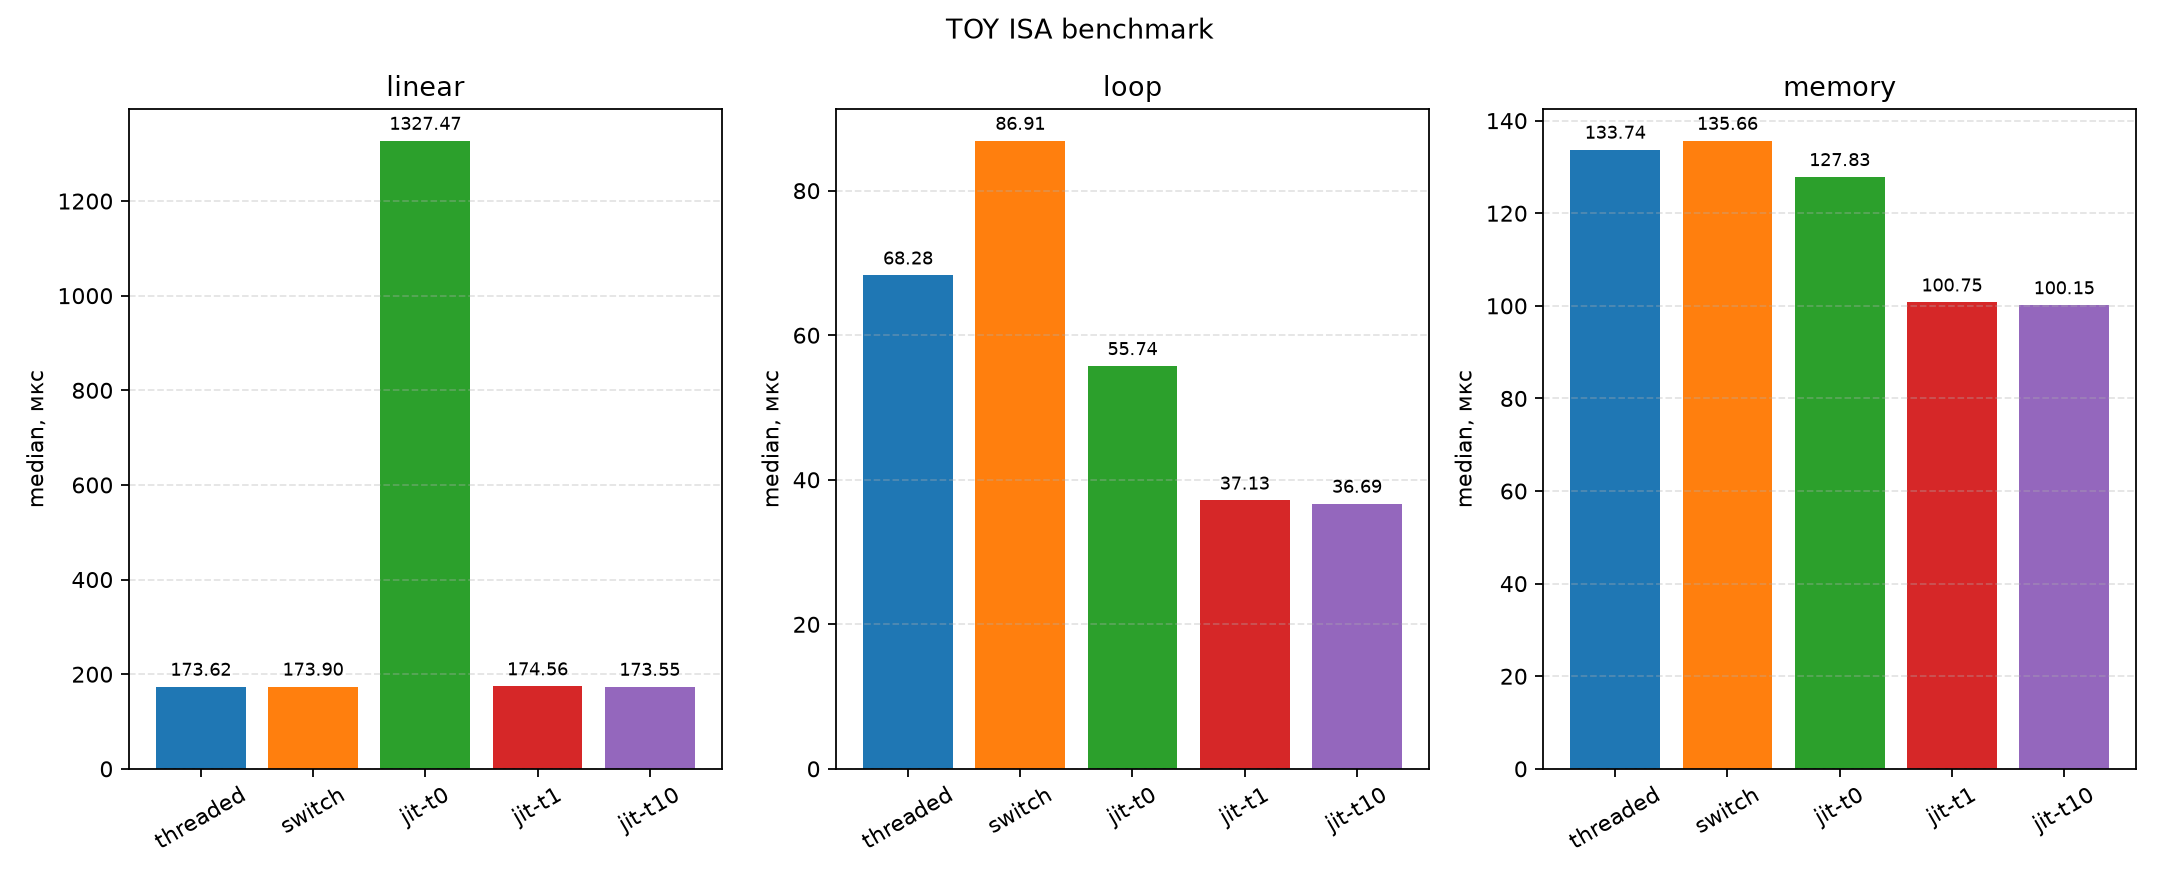
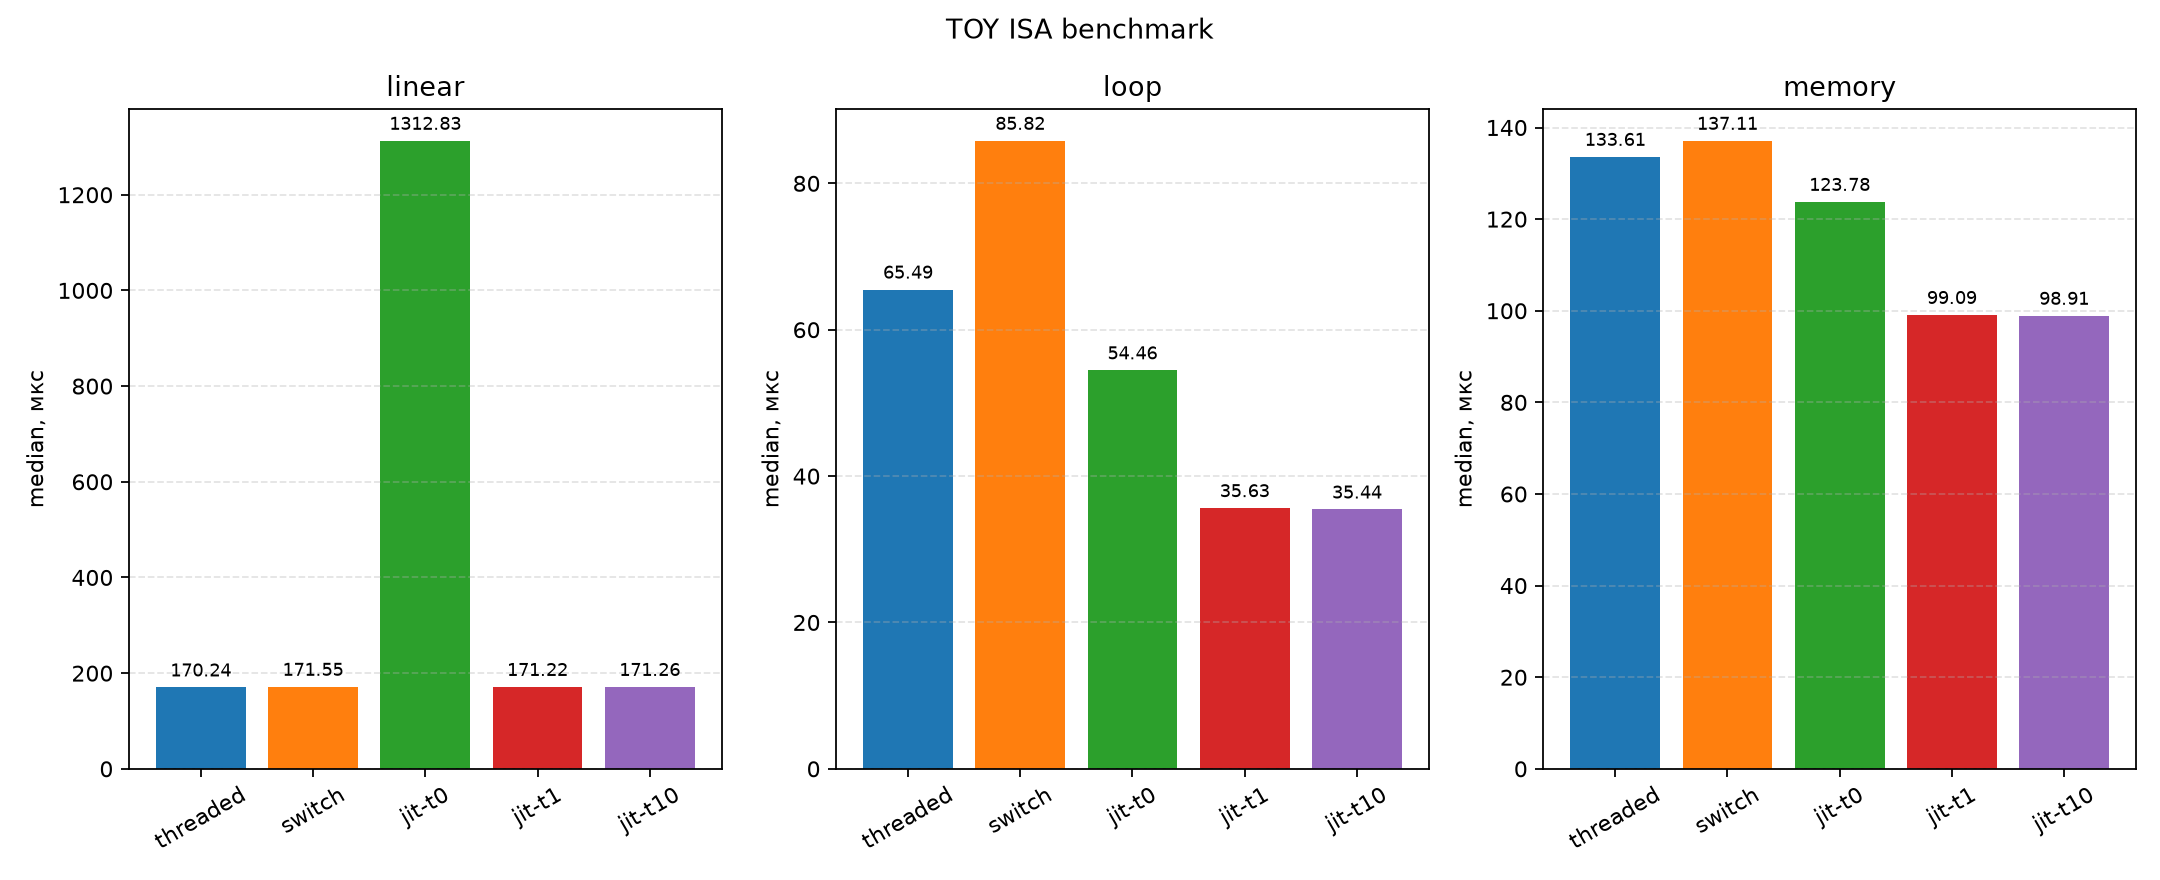
support ir optimization level

diff --git a/src/main.cpp b/src/main.cpp
@@ -11,43 +11,64 @@ namespace {
 
 constexpr std::size_t MEMORY_SIZE = 64 * 1024 * 1024;
 
+struct CommandLineOptions final {
+  const char *Filename         = nullptr;
+  TIExecutionMode Mode         = TIExecutionMode::THREADED;
+  uint64_t JitThreshold        = 0;
+  uint8_t JitOptimizationLevel = 0;
+};
+
+CommandLineOptions parseCommandLine(int ArgumentCount, char *Arguments[]) {
+  if (ArgumentCount < 2 || ArgumentCount > 5) {
+    throw std::runtime_error(std::string("Usage: ") + Arguments[0] +
+                             " <program.elf> [--engine=threaded|switch|jit]"
+                             " [--jit-threshold=N] [--jit-opt-level=0|1|2]");
+  }
+
+  CommandLineOptions Options{};
+  Options.Filename = Arguments[1];
+
+  for (int Index = 2; Index < ArgumentCount; ++Index) {
+    std::string Argument = Arguments[Index];
+    if (Argument == "--engine=switch") {
+      Options.Mode = TIExecutionMode::SWITCH;
+    } else if (Argument == "--engine=jit") {
+      Options.Mode = TIExecutionMode::JIT;
+    } else if (Argument == "--engine=threaded") {
+      Options.Mode = TIExecutionMode::THREADED;
+    } else if (Argument.rfind("--jit-threshold=", 0) == 0) {
+      std::string Value = Argument.substr(sizeof("--jit-threshold=") - 1);
+      std::size_t ParsedCharacters = 0;
+      Options.JitThreshold         = std::stoull(Value, &ParsedCharacters);
+      if (ParsedCharacters != Value.size()) {
+        throw std::runtime_error("Invalid JIT threshold: " + Value);
+      }
+    } else if (Argument.rfind("--jit-opt-level=", 0) == 0) {
+      std::string Value = Argument.substr(sizeof("--jit-opt-level=") - 1);
+      std::size_t ParsedCharacters = 0;
+      const uint64_t ParsedLevel   = std::stoull(Value, &ParsedCharacters);
+      if (ParsedCharacters != Value.size() || ParsedLevel > 2) {
+        throw std::runtime_error("Invalid JIT optimization level: " + Value);
+      }
+      Options.JitOptimizationLevel = static_cast<uint8_t>(ParsedLevel);
+    } else {
+      throw std::runtime_error("Unknown argument: " + Argument);
+    }
+  }
+
+  return Options;
+}
+
 } // namespace
 
 int main(int ArgumentCount, char *Arguments[]) {
-  if (ArgumentCount < 2 || ArgumentCount > 4) {
-    std::cerr << "Usage: " << Arguments[0]
-              << " <program.elf> [--engine=threaded|switch|jit]"
-                 " [--jit-threshold=N]\n";
-    return 1;
-  }
-
   try {
-    TIExecutionMode Mode  = TIExecutionMode::THREADED;
-    uint64_t JitThreshold = 0;
-    const char *Filename  = Arguments[1];
+    const CommandLineOptions Options =
+        parseCommandLine(ArgumentCount, Arguments);
 
-    for (int Index = 2; Index < ArgumentCount; ++Index) {
-      std::string Argument = Arguments[Index];
-      if (Argument == "--engine=switch") {
-        Mode = TIExecutionMode::SWITCH;
-      } else if (Argument == "--engine=jit") {
-        Mode = TIExecutionMode::JIT;
-      } else if (Argument == "--engine=threaded") {
-        Mode = TIExecutionMode::THREADED;
-      } else if (Argument.rfind("--jit-threshold=", 0) == 0) {
-        std::string Value = Argument.substr(sizeof("--jit-threshold=") - 1);
-        std::size_t ParsedCharacters = 0;
-        JitThreshold                 = std::stoull(Value, &ParsedCharacters);
-        if (ParsedCharacters != Value.size()) {
-          throw std::runtime_error("Invalid JIT threshold: " + Value);
-        }
-      } else {
-        throw std::runtime_error("Unknown argument: " + Argument);
-      }
-    }
-
-    ExecutionContext Context(MEMORY_SIZE, Mode, JitThreshold);
-    Context.loadBinary(Filename);
+    ExecutionContext Context(MEMORY_SIZE, Options.Mode, Options.JitThreshold,
+                             Options.JitOptimizationLevel);
+    Context.loadBinary(Options.Filename);
     Context.run();
     std::cout << "Process ended with exit code: " +
                      std::to_string(Context.state().ExitCode) + "\n";

diff --git a/benchmark/optimization_benchmark.cpp b/benchmark/optimization_benchmark.cpp
@@ -1,0 +1,112 @@
+#include "../include/toy/execution_context.hpp"
+#include "../include/toy/toy_constants.hpp"
+
+#include <algorithm>
+#include <array>
+#include <chrono>
+#include <cstddef>
+#include <cstdint>
+#include <exception>
+#include <iomanip>
+#include <iostream>
+#include <string>
+#include <vector>
+
+namespace {
+
+constexpr std::size_t MEMORY_SIZE  = TI32::WORD_BIT_COUNT * 1024;
+constexpr std::size_t SAMPLE_COUNT = 50;
+
+struct BenchmarkResult final {
+  std::vector<double> Samples{};
+  uint32_t ExitCode = 0;
+};
+
+struct BenchmarkCase final {
+  const char *Name             = nullptr;
+  uint8_t JitOptimizationLevel = 0;
+  BenchmarkResult Result{};
+};
+
+void measureSample(const std::string &Filename, uint8_t OptimizationLevel,
+                   BenchmarkResult &Result) {
+  ExecutionContext Context(MEMORY_SIZE, TIExecutionMode::JIT, 1,
+                           OptimizationLevel);
+  Context.loadBinary(Filename);
+
+  const auto Start = std::chrono::steady_clock::now();
+  Context.run();
+  const auto End = std::chrono::steady_clock::now();
+
+  if (Context.state().Status != ExecutionStatus::HALTED) {
+    throw std::runtime_error("Benchmark program did not halt");
+  }
+
+  Result.ExitCode = Context.state().ExitCode;
+  Result.Samples.push_back(
+      std::chrono::duration<double, std::micro>(End - Start).count());
+}
+
+double median(std::vector<double> Samples) {
+  std::sort(Samples.begin(), Samples.end());
+  return Samples[Samples.size() / 2];
+}
+
+double minimum(const std::vector<double> &Samples) {
+  return *std::min_element(Samples.begin(), Samples.end());
+}
+
+void printResult(const char *Name, const BenchmarkResult &Result) {
+  std::cout << std::left << std::setw(9) << Name << " median=" << std::right
+            << std::fixed << std::setprecision(2) << std::setw(10)
+            << median(Result.Samples) << " us"
+            << " min=" << std::setw(10) << minimum(Result.Samples) << " us"
+            << " exit=" << Result.ExitCode << '\n';
+}
+
+} // namespace
+
+int main(int argc, char *argv[]) {
+  if (argc != 2) {
+    std::cerr << "Usage: " << argv[0] << " <program.elf>\n";
+    return 1;
+  }
+
+  try {
+    const std::string Filename = argv[1];
+    std::array<BenchmarkCase, 3> Cases{
+        {
+         {"jit-o0", 0, {}},
+         {"jit-o1", 1, {}},
+         {"jit-o2", 2, {}},
+         }
+    };
+
+    for (BenchmarkCase &Case : Cases) {
+      Case.Result.Samples.reserve(SAMPLE_COUNT);
+    }
+
+    for (std::size_t Iteration = 0; Iteration < SAMPLE_COUNT; ++Iteration) {
+      for (std::size_t Offset = 0; Offset < Cases.size(); ++Offset) {
+        BenchmarkCase &Case = Cases[(Iteration + Offset) % Cases.size()];
+        measureSample(Filename, Case.JitOptimizationLevel, Case.Result);
+      }
+    }
+
+    for (const BenchmarkCase &Case : Cases) {
+      if (Case.Result.ExitCode != Cases.front().Result.ExitCode) {
+        throw std::runtime_error(
+            "Optimization levels returned different exit codes");
+      }
+    }
+
+    for (const BenchmarkCase &Case : Cases) {
+      printResult(Case.Name, Case.Result);
+    }
+  } catch (const std::exception &Error) {
+    std::cerr << Error.what() << '\n';
+    return 1;
+  }
+
+  return 0;
+}

diff --git a/benchmark/results/plot_benchmarks.py b/benchmark/results/plot_benchmarks.py
@@ -12,15 +12,18 @@ import matplotlib.pyplot as plt
 
 PROGRAM_RE = re.compile(r"^==\s+(.+?)\s+==$")
 RESULT_RE = re.compile(
-    r"^(?P<mode>threaded|switch|jit-t0|jit-t1|jit-t10)\s+"
+    r"^(?P<mode>threaded|switch|jit-t0|jit-t1|jit-t10|jit-o0|jit-o1|jit-o2)\s+"
     r"median=\s*(?P<median>[0-9]+(?:\.[0-9]+)?)\s+us\s+"
     r"min=\s*(?P<minimum>[0-9]+(?:\.[0-9]+)?)\s+us\s+"
     r"exit=(?P<exit>\d+)\s*$"
 )
 MODES = ("threaded", "switch", "jit-t0", "jit-t1", "jit-t10")
+OPTIMIZATION_MODES = ("jit-o0", "jit-o1", "jit-o2")
 
 
-def read_results(filename: Path) -> dict[str, dict[str, dict[str, float]]]:
+def read_results(
+    filename: Path, modes: tuple[str, ...]
+) -> dict[str, dict[str, dict[str, float]]]:
     results: dict[str, dict[str, dict[str, float]]] = {}
     program: str | None = None
 
@@ -45,7 +48,7 @@ def read_results(filename: Path) -> dict[str, dict[str, dict[str, float]]]:
     if not results:
         raise ValueError(f"В файле {filename} не найдено результатов бенчмарка")
 
-    expected_modes = set(MODES)
+    expected_modes = set(modes)
     missing = {
         program: expected_modes - set(modes)
         for program, modes in results.items()
@@ -58,16 +61,21 @@ def read_results(filename: Path) -> dict[str, dict[str, dict[str, float]]]:
     return results
 
 
-def plot_results(results: dict[str, dict[str, dict[str, float]]], metric: str, output: Path) -> None:
+def plot_results(
+    results: dict[str, dict[str, dict[str, float]]],
+    modes: tuple[str, ...],
+    metric: str,
+    output: Path,
+) -> None:
     programs = list(results)
     figure, axes = plt.subplots(
         1, len(programs), figsize=(4.5 * len(programs), 5.5), squeeze=False
     )
-    colors = plt.rcParams["axes.prop_cycle"].by_key()["color"][:len(MODES)]
+    colors = plt.rcParams["axes.prop_cycle"].by_key()["color"][:len(modes)]
 
     for axis, program in zip(axes[0], programs):
-        values = [results[program][mode][metric] for mode in MODES]
-        bars = axis.bar(MODES, values, color=colors)
+        values = [results[program][mode][metric] for mode in modes]
+        bars = axis.bar(modes, values, color=colors)
         axis.bar_label(bars, fmt="%.2f", padding=3, fontsize=8)
         axis.set_title(program.removesuffix(".elf"))
         axis.set_ylabel(f"{metric}, мкс")
@@ -92,11 +100,16 @@ def main() -> None:
         "--metric", choices=("median", "minimum"), default="median",
         help="какие значения показывать (по умолчанию: median)",
     )
+    parser.add_argument(
+        "--suite", choices=("execution", "optimization"), default="execution",
+        help="набор режимов для графика (по умолчанию: execution)",
+    )
     args = parser.parse_args()
 
-    results = read_results(args.input)
+    modes = MODES if args.suite == "execution" else OPTIMIZATION_MODES
+    results = read_results(args.input, modes)
     args.output.parent.mkdir(parents=True, exist_ok=True)
-    plot_results(results, args.metric, args.output)
+    plot_results(results, modes, args.metric, args.output)
 
 
 if __name__ == "__main__":

diff --git a/src/execution_type/jit_executor.cpp b/src/execution_type/jit_executor.cpp
@@ -394,7 +394,8 @@ ir_ref encodeNextJitEntry(ir_ctx *ctx, ExecutionContext &Context,
 
 TICompiledBlock compileBlock(ir_ctx *ctx, ExecutionContext &Context,
                              TIBasicBlockCache &Cache,
-                             const TIBasicBlock &Block) {
+                             const TIBasicBlock &Block,
+                             uint8_t OptimizationLevel) {
   ir_START();
   ctx->ret_type           = IR_ADDR;
   ir_ref ContextReference = ir_PARAM(IR_ADDR, "context", 1);
@@ -413,9 +414,9 @@ TICompiledBlock compileBlock(ir_ctx *ctx, ExecutionContext &Context,
   }
 
   ir_RETURN(encodeNextJitEntry(ctx, Context, Cache, Block));
-  std::size_t CodeSize = 0;
-  TIJitFunction EntryPoint =
-      reinterpret_cast<TIJitFunction>(ir_jit_compile(ctx, 0, &CodeSize));
+  std::size_t CodeSize     = 0;
+  TIJitFunction EntryPoint = reinterpret_cast<TIJitFunction>(
+      ir_jit_compile(ctx, OptimizationLevel, &CodeSize));
   return TICompiledBlock(EntryPoint, CodeSize);
 }
 
@@ -439,10 +440,12 @@ void executeJitBlock(ExecutionContext &Context, TIBasicBlockCache &Cache,
 
   if (!Block.hasCompiledBlock()) {
     ir_ctx IrContext{};
-    ir_init(&IrContext, IR_FUNCTION, IR_CONSTS_LIMIT_MIN, IR_INSNS_LIMIT_MIN);
+    const uint32_t IrFlags =
+        IR_FUNCTION | (Context.jitOptimizationLevel() > 0 ? IR_OPT_FOLDING : 0);
+    ir_init(&IrContext, IrFlags, IR_CONSTS_LIMIT_MIN, IR_INSNS_LIMIT_MIN);
 
-    TICompiledBlock CompiledBlock =
-        compileBlock(&IrContext, Context, Cache, Block);
+    TICompiledBlock CompiledBlock = compileBlock(
+        &IrContext, Context, Cache, Block, Context.jitOptimizationLevel());
     ir_free(&IrContext);
 
     if (CompiledBlock.empty()) {

diff --git a/include/toy/execution_context.hpp b/include/toy/execution_context.hpp
@@ -22,8 +22,9 @@ public:
   explicit ExecutionContext(
       std::size_t MemorySize,
       TIExecutionMode ExecutionMode = TIExecutionMode::THREADED,
-      uint64_t JitThreshold         = 0)
-      : Memory(MemorySize), Mode(ExecutionMode), JitThreshold_(JitThreshold) {
+      uint64_t JitThreshold = 0, uint8_t JitOptimizationLevel = 0)
+      : Memory(MemorySize), Mode(ExecutionMode), JitThreshold_(JitThreshold),
+        JitOptimizationLevel_(JitOptimizationLevel) {
 
     // this for call BB functions for this context
     Memory.setWriteObserver([this](uint32_t Address, std::size_t ByteCount) {
@@ -52,6 +53,8 @@ public:
 
   TISyscallEmulator &syscallEmulator() { return SyscallEmulator; }
 
+  uint8_t jitOptimizationLevel() const { return JitOptimizationLevel_; }
+
 private:
   TICpuState Cpu{};
   TIMemory Memory;
@@ -59,8 +62,9 @@ private:
   TIDecoder Decoder{};
   TIBasicBlockCache BlockCache{};
   TISyscallEmulator SyscallEmulator{};
-  TIExecutionMode Mode   = TIExecutionMode::THREADED;
-  uint64_t JitThreshold_ = 0;
+  TIExecutionMode Mode          = TIExecutionMode::THREADED;
+  uint64_t JitThreshold_        = 0;
+  uint8_t JitOptimizationLevel_ = 0;
 
   void executeBlock(TIBasicBlock &Block);
 };
